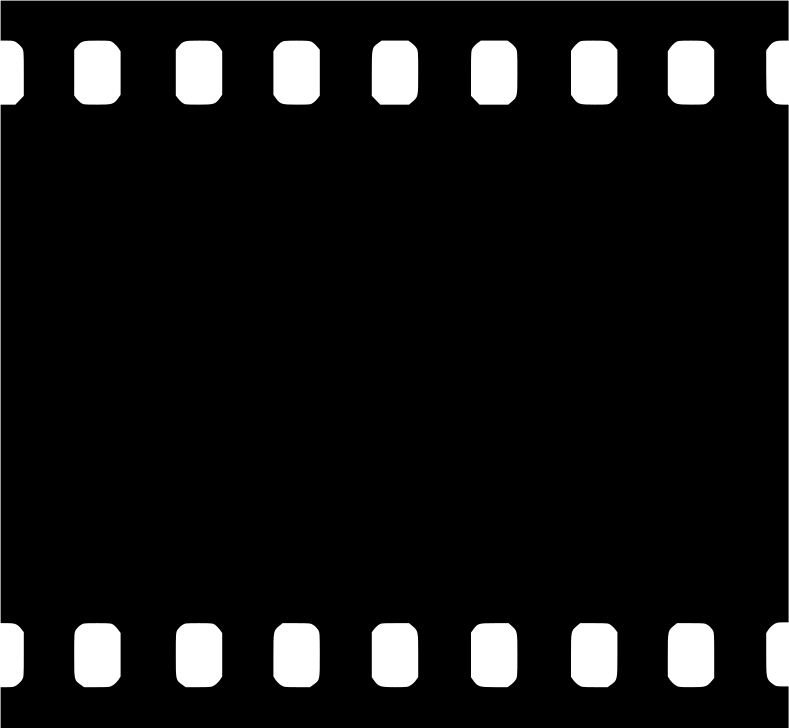
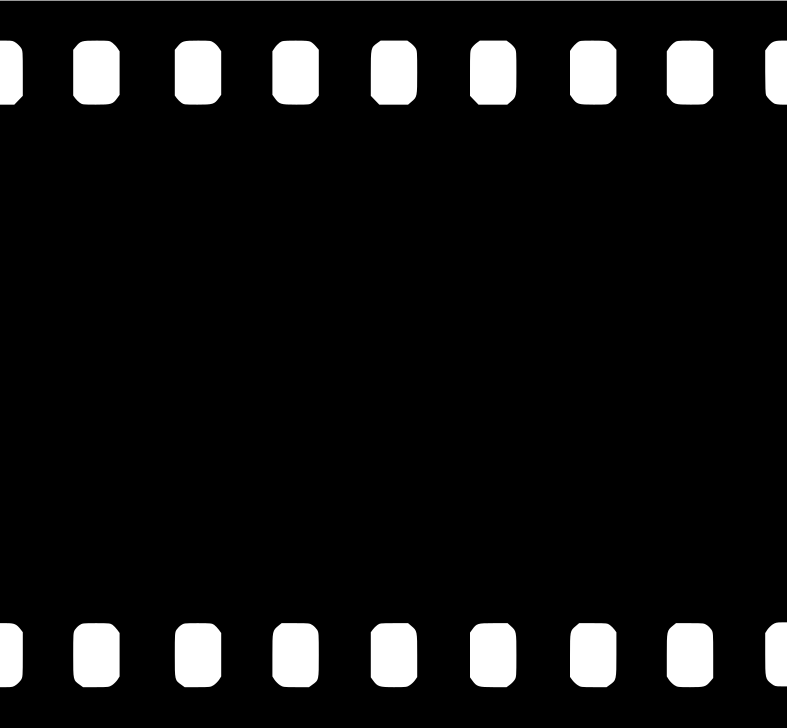
Cambios de la primera revisión- parte1

diff --git a/gastronomia.html b/gastronomia.html
@@ -17,6 +17,7 @@
 	<script type="text/javascript" src="js/all.js"></script>
 	<!--<script type="text/javascript" src="js/jquery-1.8.2.min.js"></script>-->
   <script type="text/javascript" src="js/jPages.js"></script>
+  <script type="text/javascript" src="js/jPages.min.js"></script>
   <script type="text/javascript" src="js/highlight.pack.js"></script>
   <script type="text/javascript" src="js/tabifier.js"></script>
   <script type="text/javascript" src="js/js.js"></script>
@@ -90,7 +91,7 @@
 					<div class="menu">
 						<ul>
 							<a class="sin-subrayado negro" href="ubicacion.html#ubicacion"><li class="menu-item">¿Dónde se ubica?</li></a>
-							<a class="sin-subrayado negro" href="historia.html#historia"><li class="menu-item">Una breve Historia...</li></a>
+							<a class="sin-subrayado negro" href="historia.html#historia"><li class="menu-item">Breve Historia de Tuxtepec</li></a>
 							<a class="sin-subrayado negro" href="gastronomia.html#gastronomia"><li class="categoria-seleccionada">Gastronomía</li></a>
 							<a class="sin-subrayado negro" href="inundacion.html#inundacion"><li class="menu-item">La tragedia de Tuxtepec</li></a>
 						</ul>
@@ -101,14 +102,14 @@
 				<div class="col-12 col-sm-12 col-md-9 col-lg-9 col-xl-9 animated fadeIn" >
 					<a name="gastronomia"><h1 class="titulo"> Gastronomía</h1></a>
 					<p class="texto-normal">¿Qué se come en Tuxtepec?</p>
-					<center><small>(De clic sobre alguna de las tres opciones de abajo: Vegetación, platillos o Variedades.)</small></center>
+					<center><small>(De clic sobre alguna de las tres opciones de abajo: Vegetación, Platillos o Variedades.)</small></center>
       <br>
       <center>
       	
       <div class="holder">
         <!-- optional CEO friendly html to be replaced by jPages generated links -->
         <ul >
-          <li>Vegetación</li>
+          <li >Vegetación</li>
           <li>Platillos</li>
           <li>Variedades</li>
           

diff --git a/css/estilo.css b/css/estilo.css
@@ -497,7 +497,7 @@ to{
 100%{margin-top: 0px;}*/
 }
 
-/*-----------------------------------*/
+/*---------------Cinta de pelicula de inundacion--------------------*/
 
 .video-texto{
 	width: 95%;
@@ -523,6 +523,10 @@ to{
 	-moz-animation: continuo 20s infinite linear;
 	-o-animation: continuo 20s infinite linear;
 	animation: continuo 20s infinite linear;
+	-moz-animation-delay:3s;
+  	-webkit-animation-delay:3s;
+  	-o-animation-delay:3s;
+  	animation-delay:3s;
 }
 
 @keyframes continuo{
@@ -550,10 +554,14 @@ to{
 .img-cinta-film{
 	width: 1000px; 
 	height: 400px;
-	-webkit-animation: seguido 200s infinite linear;
-	-moz-animation: seguido 200s infinite linear;
-	-o-animation: seguido 200s infinite linear;
-	animation: seguido 200s infinite linear;
+	-webkit-animation: seguido 250s infinite linear;
+	-moz-animation: seguido 250s infinite linear;
+	-o-animation: seguido 250s infinite linear;
+	animation: seguido 250s infinite linear;
+	-moz-animation-delay:3s;
+  	-webkit-animation-delay:3s;
+  	-o-animation-delay:3s;
+  	animation-delay:3s;
 
 }
 
@@ -589,12 +597,12 @@ to{
 
 /*------------estilo de div paginacion-----*/
 
-.holder {
+/*.holder {
     margin: 15px 0 30px 0;
   }
 
   .holder a {
-    font-size: 12px;
+    font-size: 15px;
     cursor: pointer;
     margin: 0 25px 0 0;
     color: #000000;
@@ -612,7 +620,7 @@ to{
   .holder a.jp-current:hover {
     cursor: default;
     background: none;
-  }
+  }*/
 
 /*-------estilos responsivos--------*/
 

diff --git a/ubicacion.html b/ubicacion.html
@@ -81,7 +81,7 @@
 					<div class="menu">
 						<ul>
 							<a class="sin-subrayado negro" href="ubicacion.html#ubicacion"><li class="categoria-seleccionada">¿Dónde se ubica?</li></a>
-							<a class="sin-subrayado negro" href="historia.html#historia"><li class="menu-item">Una breve Historia...</li></a>
+							<a class="sin-subrayado negro" href="historia.html#historia"><li class="menu-item">Breve Historia de Tuxtepec</li></a>
 							<a class="sin-subrayado negro" href="gastronomia.html#gastronomia"><li class="menu-item">Gastronomía</li></a>
 							<a class="sin-subrayado negro" href="inundacion.html#inundacion"><li class="menu-item">La tragedia de Tuxtepec</li></a>
 						</ul>
@@ -109,19 +109,19 @@ Limita al norte con el estado de Veracruz y al sur con la ciudad oaxaqueña de L
 					<ul class="row first">
 						<li>
 					<img src="imagenes/mariposa2.jpg" alt="Mariposa">
-					<p>Lancha Mariposa</p>
+					<p>Lancha Mariposa sobre el río Papaloapan</p>
 				</li>
 					<li>
 					<img src="imagenes/pintura1.jpg" alt="Pintura">
-					<p>Pintura</p>
+					<p>"Tochtepec" de José Antonio Barradas Fazzia</p>
 				</li>
 				<li>
 					<img src="imagenes/lanchas.jpg" alt="Pintura">
-					<p>Chalupas</p>
+					<p>Chalupas sobre el río de las mariposas</p>
 				</li>
 				<li>
 					<img src="imagenes/mariposa3.jpg" alt="Pintura">
-					<p>Retrato de mariposas</p>
+					<p>Chalupas y mariposas</p>
 				</li>
 				</ul>
 				</div>

diff --git a/historia.html b/historia.html
@@ -82,7 +82,7 @@
 					<div class="menu">
 						<ul>
 							<a class="sin-subrayado negro" href="ubicacion.html#ubicacion"><li class="menu-item">¿Dónde se ubica?</li></a>
-							<a class="sin-subrayado negro" href="historia.html#historia"><li class="categoria-seleccionada">Una breve Historia...</li></a>
+							<a class="sin-subrayado negro" href="historia.html#historia"><li class="categoria-seleccionada">Breve Historia de Tuxtepec</li></a>
 							<a class="sin-subrayado negro" href="gastronomia.html#gastronomia"><li class="menu-item">Gastronomía</li></a>
 							<a class="sin-subrayado negro" href="inundacion.html#inundacion"><li class="menu-item">La tragedia de Tuxtepec</li></a>
 						</ul>
@@ -116,15 +116,15 @@ El movimiento revolucionario fue iniciado en la región por Sebastián Ortiz des
 					<ul class="row first">
 						<li>
 					<img src="imagenes/ingenio.jpg" alt="ingenio">
-					<p>Ingenio</p>
+					<p>Ingenio Adolfo López Mateos</p>
 				</li>
 					<li>
 					<img src="imagenes/cervecera.jpg" alt="cervecera">
-					<p>Cervecera</p>
+					<p>Compañia Cervecera del Tropico S.a. de C.v.</p>
 				</li>
 				<li>
 					<img src="imagenes/presa.jpg" alt="presa">
-					<p>Presa</p>
+					<p>Presa Miguel Alemán</p>
 				</li>
 				</ul>
 				</div>

diff --git a/css/jPages.css b/css/jPages.css
@@ -3,33 +3,36 @@
 }
 
 .holder a {
-	font-size: 12px;
+	font-size: 18px;
 	cursor: pointer;
-	margin: 0 5px;
-	color: #333;
+	margin: 0 10px;
+	color: #010101;
 }
 
 .holder a:hover {
-	background-color: #222;
-	color: #fff;
+	background-color: #FF7E00;
+	color: #000000;
+	text-decoration: none;
 }
 
 .holder a.jp-previous { margin-right: 15px; }
 .holder a.jp-next { margin-left: 15px; }
 
 .holder a.jp-current, a.jp-current:hover { 
-	color: #FF4242;
+	color: #D84B20;
 	font-weight: bold;
+text-decoration: underline;
 }
 
 .holder a.jp-disabled, a.jp-disabled:hover {
-	color: #bbb;
+	color: #000000;
 }
 
 .holder a.jp-current, a.jp-current:hover,
 .holder a.jp-disabled, a.jp-disabled:hover {
 	cursor: default; 
 	background: none;
+
 }
 
-.holder span { margin: 0 5px; }
+.holder span { margin: 0 5px;}

diff --git a/inundacion.html b/inundacion.html
@@ -81,7 +81,7 @@
 					<div class="menu">
 						<ul>
 							<a class="sin-subrayado negro" href="ubicacion.html#ubicacion"><li class="menu-item">¿Dónde se ubica?</li></a>
-							<a class="sin-subrayado negro" href="historia.html#historia"><li class="menu-item">Una breve Historia...</li></a>
+							<a class="sin-subrayado negro" href="historia.html#historia"><li class="menu-item">Breve Historia de Tuxtepec</li></a>
 							<a class="sin-subrayado negro" href="gastronomia.html#gastronomia"><li class="menu-item">Gastronomía</li></a>
 							<a class="sin-subrayado negro" href="inundacion.html#inundacion"><li class="categoria-seleccionada">La tragedia de Tuxtepec</li></a>
 						</ul>

diff --git a/index.html b/index.html
@@ -88,7 +88,7 @@
 				
 				</div>
 				<div>
-					<p class="titulo-entradas">Una Breve Historia...</p>
+					<p class="titulo-entradas">Breve Historia de Tuxtepec</p>
 				</div>
 				</a>
 				</div>
